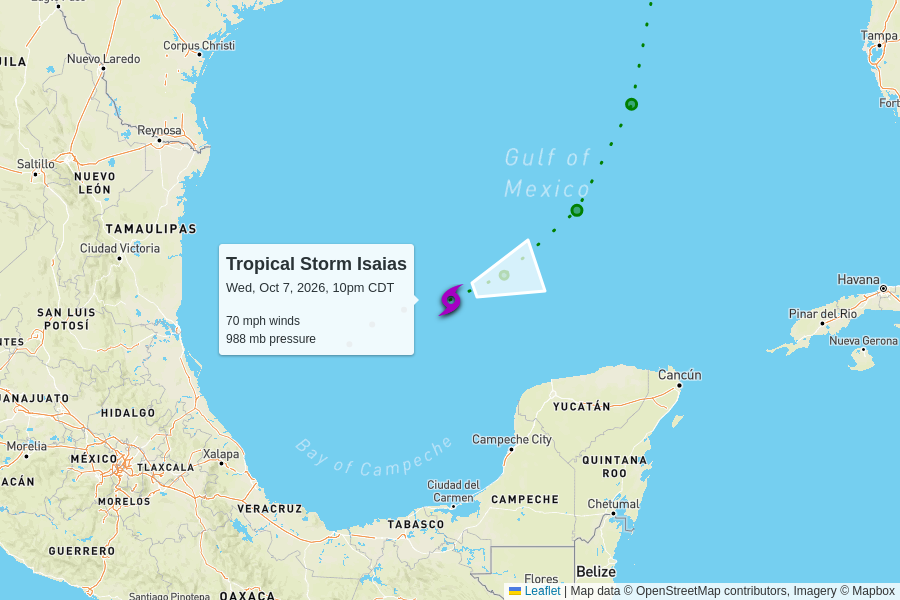
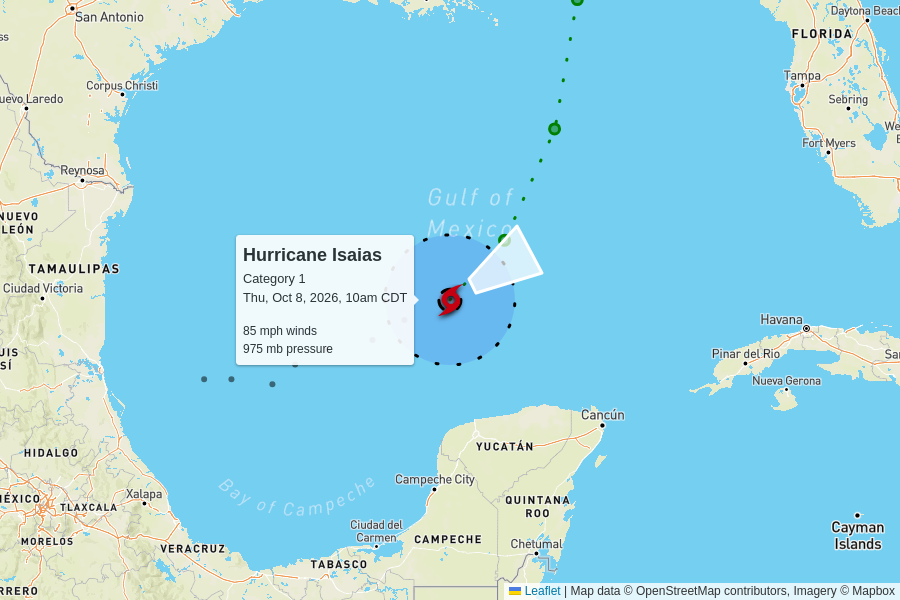
automatic update

diff --git a/docs/2026.html b/docs/2026.html
@@ -45,13 +45,13 @@
       <div class="grid-container">
           <div class="grid-row">
             <script type="text/json" id="storm_data_AL092026">
-              {"pressure":[{"timestamp":"2026-10-06T21:00:00.000Z","value":1007},{"timestamp":"2026-10-07T03:00:00.000Z","value":1005},{"timestamp":"2026-10-07T09:00:00.000Z","value":1004},{"timestamp":"2026-10-07T15:00:00.000Z","value":1000},{"timestamp":"2026-10-07T21:00:00.000Z","value":994},{"timestamp":"2026-10-08T03:00:00.000Z","value":988}],"wind":[{"timestamp":"2026-10-06T21:00:00.000Z","value":35},{"timestamp":"2026-10-07T03:00:00.000Z","value":35},{"timestamp":"2026-10-07T09:00:00.000Z","value":40},{"timestamp":"2026-10-07T15:00:00.000Z","value":45},{"timestamp":"2026-10-07T21:00:00.000Z","value":65},{"timestamp":"2026-10-08T03:00:00.000Z","value":70}]}
+              {"pressure":[{"timestamp":"2026-10-06T21:00:00.000Z","value":1007},{"timestamp":"2026-10-07T03:00:00.000Z","value":1005},{"timestamp":"2026-10-07T09:00:00.000Z","value":1004},{"timestamp":"2026-10-07T15:00:00.000Z","value":1000},{"timestamp":"2026-10-07T21:00:00.000Z","value":994},{"timestamp":"2026-10-08T03:00:00.000Z","value":988},{"timestamp":"2026-10-08T09:00:00.000Z","value":979},{"timestamp":"2026-10-08T15:00:00.000Z","value":975}],"wind":[{"timestamp":"2026-10-06T21:00:00.000Z","value":35},{"timestamp":"2026-10-07T03:00:00.000Z","value":35},{"timestamp":"2026-10-07T09:00:00.000Z","value":40},{"timestamp":"2026-10-07T15:00:00.000Z","value":45},{"timestamp":"2026-10-07T21:00:00.000Z","value":65},{"timestamp":"2026-10-08T03:00:00.000Z","value":70},{"timestamp":"2026-10-08T09:00:00.000Z","value":80},{"timestamp":"2026-10-08T15:00:00.000Z","value":85}],"extents":{"hurricane":[{"timestamp":"2026-10-06T21:00:00.000Z","value":null},{"timestamp":"2026-10-07T03:00:00.000Z","value":null},{"timestamp":"2026-10-07T09:00:00.000Z","value":null},{"timestamp":"2026-10-07T15:00:00.000Z","value":null},{"timestamp":"2026-10-07T21:00:00.000Z","value":null},{"timestamp":"2026-10-08T03:00:00.000Z","value":null},{"timestamp":"2026-10-08T09:00:00.000Z","value":"15"},{"timestamp":"2026-10-08T15:00:00.000Z","value":"15"}],"tropical":[{"timestamp":"2026-10-06T21:00:00.000Z","value":null},{"timestamp":"2026-10-07T03:00:00.000Z","value":null},{"timestamp":"2026-10-07T09:00:00.000Z","value":null},{"timestamp":"2026-10-07T15:00:00.000Z","value":null},{"timestamp":"2026-10-07T21:00:00.000Z","value":null},{"timestamp":"2026-10-08T03:00:00.000Z","value":null},{"timestamp":"2026-10-08T09:00:00.000Z","value":"90"},{"timestamp":"2026-10-08T15:00:00.000Z","value":"90"}]}}
             </script>              <div class="grid-container storm">
-                <div class="grid-row " onClick="toggle('storm_AL092026')">
+                <div class="grid-row category-1" onClick="toggle('storm_AL092026')">
                   <h2>
-                    Tropical Storm Isaias
+                    Hurricane Isaias - category 1
                     <div class="updated">
-                      last updated <time datetime="2026-10-08T03:00:00.000Z">2026-10-08T03:00:00.000Z</time>
+                      last updated <time datetime="2026-10-08T15:00:00.000Z">2026-10-08T15:00:00.000Z</time>
                     </div>
                   </h2>
                 </div>
@@ -67,19 +67,19 @@
                       </tr>
                       <tr>
                         <td>
-                          70 mph
+                          85 mph
                           <br>
                           +5 mph since last update
                         </td>
                         <td>
-                          988 mb
+                          975 mb
                           <br>
-                          -6 mb since last update
+                          -4 mb since last update
                         </td>
                         <td>
-                          9 mph to the east-northeast
+                          10 mph to the east-northeast
                           <br>
-                          <span style="display: inline-block; font-size: 1.5em; transform: rotate(70deg);">↑</span>
+                          <span style="display: inline-block; font-size: 1.5em; transform: rotate(60deg);">↑</span>
                         </td>
                         <td>
                           <a href="https://raw.githubusercontent.com/mgwalker/atlantic-hurricanes/main/data/csv/AL092026.csv">AL092026.csv</a>
@@ -109,6 +109,12 @@
                         <h3>Minimum central pressure</h3>
                         <div style="width:100%;">
                           <canvas id="chart_pressure_AL092026"></canvas>
+                        </div>
+                      </div>
+                      <div class="chart-container">
+                        <h3>Storm wind extents</h3>
+                        <div style="width:100%;">
+                          <canvas id="chart_extents_AL092026"></canvas>
                         </div>
                       </div>
                     

diff --git a/docs/index.html b/docs/index.html
@@ -45,13 +45,13 @@
       <div class="grid-container">
           <div class="grid-row">
             <script type="text/json" id="storm_data_AL092026">
-              {"pressure":[{"timestamp":"2026-10-06T21:00:00.000Z","value":1007},{"timestamp":"2026-10-07T03:00:00.000Z","value":1005},{"timestamp":"2026-10-07T09:00:00.000Z","value":1004},{"timestamp":"2026-10-07T15:00:00.000Z","value":1000},{"timestamp":"2026-10-07T21:00:00.000Z","value":994},{"timestamp":"2026-10-08T03:00:00.000Z","value":988}],"wind":[{"timestamp":"2026-10-06T21:00:00.000Z","value":35},{"timestamp":"2026-10-07T03:00:00.000Z","value":35},{"timestamp":"2026-10-07T09:00:00.000Z","value":40},{"timestamp":"2026-10-07T15:00:00.000Z","value":45},{"timestamp":"2026-10-07T21:00:00.000Z","value":65},{"timestamp":"2026-10-08T03:00:00.000Z","value":70}]}
+              {"pressure":[{"timestamp":"2026-10-06T21:00:00.000Z","value":1007},{"timestamp":"2026-10-07T03:00:00.000Z","value":1005},{"timestamp":"2026-10-07T09:00:00.000Z","value":1004},{"timestamp":"2026-10-07T15:00:00.000Z","value":1000},{"timestamp":"2026-10-07T21:00:00.000Z","value":994},{"timestamp":"2026-10-08T03:00:00.000Z","value":988},{"timestamp":"2026-10-08T09:00:00.000Z","value":979},{"timestamp":"2026-10-08T15:00:00.000Z","value":975}],"wind":[{"timestamp":"2026-10-06T21:00:00.000Z","value":35},{"timestamp":"2026-10-07T03:00:00.000Z","value":35},{"timestamp":"2026-10-07T09:00:00.000Z","value":40},{"timestamp":"2026-10-07T15:00:00.000Z","value":45},{"timestamp":"2026-10-07T21:00:00.000Z","value":65},{"timestamp":"2026-10-08T03:00:00.000Z","value":70},{"timestamp":"2026-10-08T09:00:00.000Z","value":80},{"timestamp":"2026-10-08T15:00:00.000Z","value":85}],"extents":{"hurricane":[{"timestamp":"2026-10-06T21:00:00.000Z","value":null},{"timestamp":"2026-10-07T03:00:00.000Z","value":null},{"timestamp":"2026-10-07T09:00:00.000Z","value":null},{"timestamp":"2026-10-07T15:00:00.000Z","value":null},{"timestamp":"2026-10-07T21:00:00.000Z","value":null},{"timestamp":"2026-10-08T03:00:00.000Z","value":null},{"timestamp":"2026-10-08T09:00:00.000Z","value":"15"},{"timestamp":"2026-10-08T15:00:00.000Z","value":"15"}],"tropical":[{"timestamp":"2026-10-06T21:00:00.000Z","value":null},{"timestamp":"2026-10-07T03:00:00.000Z","value":null},{"timestamp":"2026-10-07T09:00:00.000Z","value":null},{"timestamp":"2026-10-07T15:00:00.000Z","value":null},{"timestamp":"2026-10-07T21:00:00.000Z","value":null},{"timestamp":"2026-10-08T03:00:00.000Z","value":null},{"timestamp":"2026-10-08T09:00:00.000Z","value":"90"},{"timestamp":"2026-10-08T15:00:00.000Z","value":"90"}]}}
             </script>              <div class="grid-container storm">
-                <div class="grid-row " onClick="toggle('storm_AL092026')">
+                <div class="grid-row category-1" onClick="toggle('storm_AL092026')">
                   <h2>
-                    Tropical Storm Isaias
+                    Hurricane Isaias - category 1
                     <div class="updated">
-                      last updated <time datetime="2026-10-08T03:00:00.000Z">2026-10-08T03:00:00.000Z</time>
+                      last updated <time datetime="2026-10-08T15:00:00.000Z">2026-10-08T15:00:00.000Z</time>
                     </div>
                   </h2>
                 </div>
@@ -67,19 +67,19 @@
                       </tr>
                       <tr>
                         <td>
-                          70 mph
+                          85 mph
                           <br>
                           +5 mph since last update
                         </td>
                         <td>
-                          988 mb
+                          975 mb
                           <br>
-                          -6 mb since last update
+                          -4 mb since last update
                         </td>
                         <td>
-                          9 mph to the east-northeast
+                          10 mph to the east-northeast
                           <br>
-                          <span style="display: inline-block; font-size: 1.5em; transform: rotate(70deg);">↑</span>
+                          <span style="display: inline-block; font-size: 1.5em; transform: rotate(60deg);">↑</span>
                         </td>
                         <td>
                           <a href="https://raw.githubusercontent.com/mgwalker/atlantic-hurricanes/main/data/csv/AL092026.csv">AL092026.csv</a>
@@ -109,6 +109,12 @@
                         <h3>Minimum central pressure</h3>
                         <div style="width:100%;">
                           <canvas id="chart_pressure_AL092026"></canvas>
+                        </div>
+                      </div>
+                      <div class="chart-container">
+                        <h3>Storm wind extents</h3>
+                        <div style="width:100%;">
+                          <canvas id="chart_extents_AL092026"></canvas>
                         </div>
                       </div>
                     
